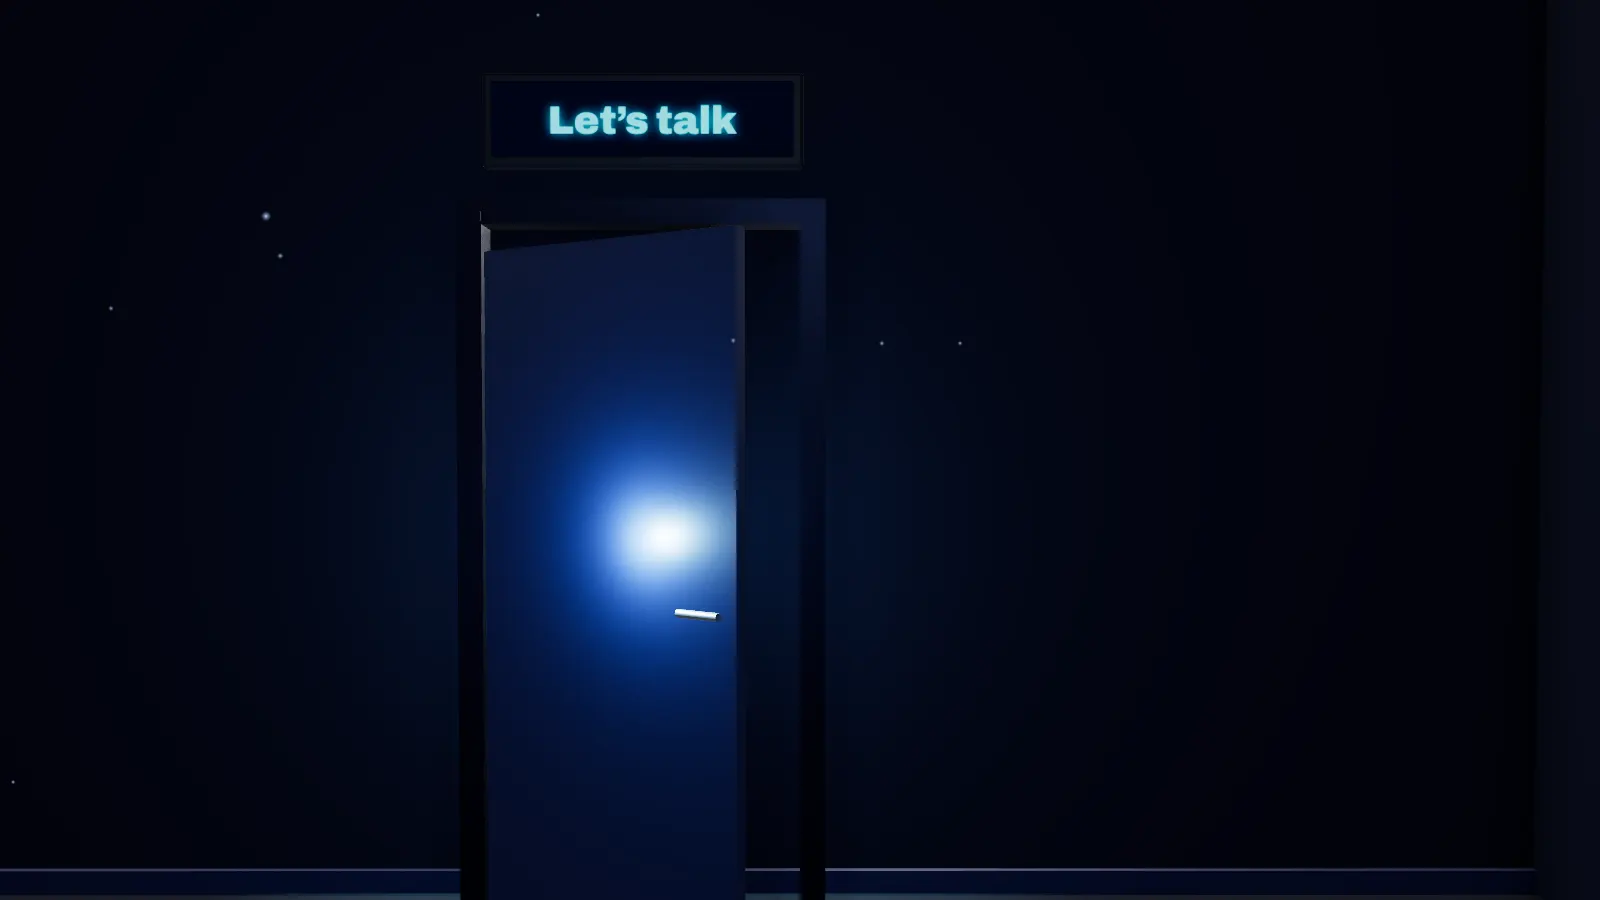
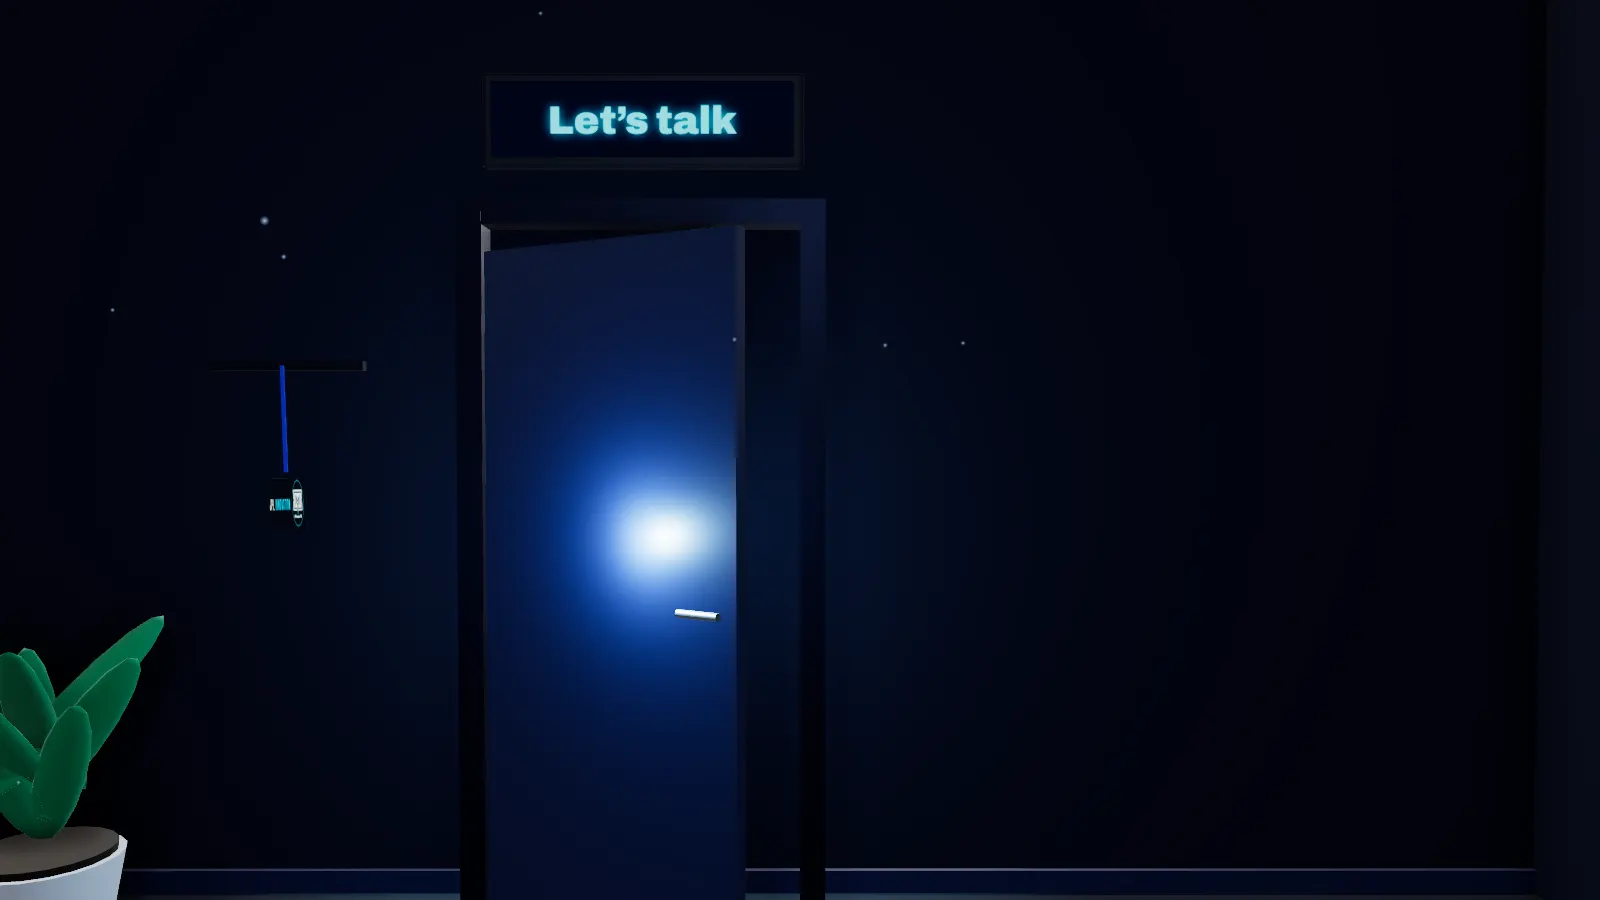
Set dressing, a resting starfield, and the studio's design notes
- Props: shelving with bins, books, boxes and plants beside the desk, a rug, a toolbox and spare wheels, a parts
  shelf over the drone bench, laptops and notebooks on the team's table, a plant, a badge on a lanyard by the door.
- The animated starfield stops drawing while the studio's opaque 3D stage covers it, and resumes elsewhere.
- Removes the old theme toggle (the theme is in Settings now); all stills and the link-preview card re-rendered.
- docs/design/direction.md records the studio's direction, its honesty rules and its budgets.

Changed region(s): [[0.0, 0.6844, 0.125, 1.0], [0.1562, 0.4044, 0.1875, 0.5911]]

diff --git a/src/lib/studio/props.ts b/src/lib/studio/props.ts
@@ -1,0 +1,208 @@
+/**
+ * Set dressing: the small things that make the room look worked in (shelving with bins, a plant, a rug, a toolbox,
+ * a parts shelf over the drone bench, laptops on the team's table, a badge on a lanyard by the door). Plain shapes in
+ * the room's own materials, placed so they sit in frame beside each scene's subject and never in front of it.
+ * Positions are metres in the room's space (room.ts: the front wall is z = -3.4, the back wall z = 6.4).
+ */
+import {
+	CylinderGeometry,
+	DoubleSide,
+	Group,
+	Mesh,
+	MeshBasicMaterial,
+	MeshStandardMaterial,
+	PlaneGeometry,
+	SphereGeometry,
+	TorusGeometry,
+} from "three";
+import { hardware } from "../three/finish";
+import { boxAt, canvasSurface, imageTexture, ROOM } from "./room";
+import type { RoomState } from "./room";
+
+export interface Props {
+	update(state: RoomState, dt: number): void;
+}
+
+const mat = (color: number, roughness = 0.6, finish: Parameters<typeof hardware>[1] = "plastic") => hardware({ color, roughness }, finish);
+
+export function buildProps(parent: Group): Props {
+	const { z0, z1 } = ROOM;
+	const steel = hardware({ color: 0x2d3446, roughness: 0.4, metalness: 0.7 }, "anodised");
+	const wood = hardware({ color: 0x5b4636, roughness: 0.55 }, "plastic");
+	const kraft = mat(0xb08a5a, 0.85, "printed");
+	const accents = [0x22d3ee, 0xffc20e, 0x8b5cf6, 0x34d399, 0xf0596b, 0x3b82f6].map((c) => mat(c, 0.5));
+
+	/** A potted plant: a tapered pot and a handful of leaves. */
+	const plant = (x: number, y: number, z: number, scale = 1) => {
+		const g = new Group();
+		g.position.set(x, y, z);
+		g.scale.setScalar(scale);
+		parent.add(g);
+		const pot = new Mesh(new CylinderGeometry(0.15, 0.11, 0.22, 20), mat(0xe9eef7, 0.4, "plastic"));
+		pot.position.y = 0.11;
+		g.add(pot);
+		const soil = new Mesh(new CylinderGeometry(0.135, 0.135, 0.02, 20), mat(0x2a2118, 0.95));
+		soil.position.y = 0.225;
+		g.add(soil);
+		const leaf = hardware({ color: 0x2f8f5b, roughness: 0.7, side: DoubleSide }, "fabric");
+		for (let i = 0; i < 9; i++) {
+			const a = (i / 9) * Math.PI * 2;
+			const tilt = 0.45 + (i % 3) * 0.18;
+			const stem = new Mesh(new SphereGeometry(0.1, 10, 8), leaf);
+			stem.scale.set(0.5, 1.6 + (i % 3) * 0.35, 0.18);
+			stem.position.set(Math.sin(a) * 0.07, 0.4 + (i % 3) * 0.06, Math.cos(a) * 0.07);
+			stem.rotation.set(Math.cos(a) * tilt, 0, -Math.sin(a) * tilt);
+			g.add(stem);
+		}
+		return g;
+	};
+
+	/** Open shelving: two uprights, boards, and what sits on them. */
+	const shelving = (x: number, z: number, width: number, boards: number[], depth = 0.34) => {
+		for (const sx of [-1, 1]) boxAt(parent, 0.04, boards[boards.length - 1] + 0.12, depth, steel, x + sx * (width / 2 - 0.02), (boards[boards.length - 1] + 0.12) / 2, z);
+		for (const y of boards) boxAt(parent, width, 0.03, depth, wood, x, y, z, 0.006);
+		boxAt(parent, width - 0.08, boards[boards.length - 1] + 0.1, 0.01, mat(0x111a33, 0.9), x, (boards[boards.length - 1] + 0.1) / 2 + 0.02, z - depth / 2 + 0.005); // the back panel
+	};
+
+	/* ---------- The storage shelving by the desk (the title scene's frame, left of the desk) ---------- */
+	const sx = -8.0;
+	const sz = z0 + 0.2;
+	shelving(sx, sz, 0.9, [0.12, 0.55, 0.98, 1.41, 1.84]);
+	// Floor shelf: two big bins.
+	boxAt(parent, 0.36, 0.28, 0.28, accents[0], sx - 0.2, 0.28, sz, 0.02);
+	boxAt(parent, 0.36, 0.28, 0.28, accents[2], sx + 0.2, 0.28, sz, 0.02);
+	// Second: a row of binders.
+	[0x1d4ed8, 0x0f766e, 0xb45309, 0x7c3aed, 0xbe123c, 0x334155].forEach((c, i) => boxAt(parent, 0.07, 0.3, 0.24, mat(c, 0.55), sx - 0.33 + i * 0.1, 0.72, sz, 0.005));
+	// Third: cardboard boxes.
+	boxAt(parent, 0.3, 0.22, 0.26, kraft, sx - 0.22, 1.12, sz, 0.01);
+	boxAt(parent, 0.26, 0.16, 0.26, kraft, sx + 0.18, 1.09, sz, 0.01);
+	boxAt(parent, 0.2, 0.12, 0.2, kraft, sx + 0.18, 1.23, sz, 0.01);
+	// Fourth: small bins in the team's colours.
+	for (let i = 0; i < 4; i++) boxAt(parent, 0.17, 0.12, 0.24, accents[(i + 1) % accents.length], sx - 0.3 + i * 0.2, 1.5, sz, 0.015);
+	// Top: a small plant.
+	plant(sx, 1.86, sz, 0.55);
+	// And a taller one on the floor beside the desk.
+	plant(-7.3, 0, z0 + 0.45, 1.5);
+
+	/* ---------- A rug under the desk ---------- */
+	const rugFace = canvasSurface(512, 352);
+	{
+		const { g } = rugFace;
+		g.fillStyle = "#16213f";
+		g.fillRect(0, 0, 512, 352);
+		g.strokeStyle = "#22d3ee";
+		g.globalAlpha = 0.55;
+		g.lineWidth = 5;
+		g.strokeRect(24, 24, 464, 304);
+		g.globalAlpha = 0.28;
+		g.lineWidth = 2;
+		g.strokeRect(44, 44, 424, 264);
+		g.globalAlpha = 0.18;
+		for (let i = 0; i < 9; i++) {
+			g.beginPath();
+			g.moveTo(64 + i * 48, 64);
+			g.lineTo(64 + i * 48, 288);
+			g.stroke();
+		}
+		rugFace.redraw();
+	}
+	const rug = new Mesh(new PlaneGeometry(3.0, 2.1), new MeshStandardMaterial({ map: rugFace.texture, roughness: 1 }));
+	rug.rotation.x = -Math.PI / 2;
+	rug.position.set(-6, 0.006, z0 + 1.45);
+	parent.add(rug);
+
+	/* ---------- Robotics: a toolbox and spare wheels ---------- */
+	const red = mat(0xc8283a, 0.45);
+	boxAt(parent, 0.52, 0.22, 0.26, red, -1.78, 0.11, -1.95, 0.02);
+	boxAt(parent, 0.5, 0.05, 0.24, mat(0x9a1f2e, 0.45), -1.78, 0.245, -1.95, 0.015);
+	const handle = new Mesh(new TorusGeometry(0.06, 0.008, 8, 16, Math.PI), steel);
+	handle.position.set(-1.78, 0.27, -1.95);
+	parent.add(handle);
+	const tire = mat(0x14171f, 0.9, "rubber");
+	for (let i = 0; i < 3; i++) {
+		const wheel = new Mesh(new CylinderGeometry(0.1, 0.1, 0.05, 20), tire);
+		wheel.position.set(-3.75, 0.03 + i * 0.052, -3.0);
+		parent.add(wheel);
+	}
+
+	/* ---------- Drones: a parts shelf over the bench ---------- */
+	const px = -1.25;
+	boxAt(parent, 1.5, 0.03, 0.26, wood, px, 1.5, z0 + 0.15, 0.006);
+	boxAt(parent, 1.5, 0.03, 0.26, wood, px, 1.9, z0 + 0.15, 0.006);
+	for (const bx of [-0.62, 0.62]) boxAt(parent, 0.03, 0.46, 0.04, steel, px + bx, 1.7, z0 + 0.06);
+	// LiPo bags, flat, with a red label each; a stack of prop packs; a coil of wire.
+	for (let i = 0; i < 3; i++) {
+		boxAt(parent, 0.14, 0.05, 0.1, mat(0x161a24, 0.5, "wrap"), px - 0.5 + i * 0.17, 1.545, z0 + 0.15, 0.01);
+		boxAt(parent, 0.06, 0.004, 0.04, red, px - 0.5 + i * 0.17, 1.572, z0 + 0.15);
+	}
+	for (let i = 0; i < 3; i++) boxAt(parent, 0.22, 0.015, 0.12, mat(0x1d2b4f, 0.5), px + 0.12, 1.53 + i * 0.016, z0 + 0.15, 0.003);
+	const coil = new Mesh(new TorusGeometry(0.05, 0.016, 8, 20), mat(0xf0596b, 0.5));
+	coil.rotation.x = Math.PI / 2;
+	coil.position.set(px + 0.5, 1.55, z0 + 0.15);
+	parent.add(coil);
+	// Upper shelf: bins.
+	for (let i = 0; i < 5; i++) boxAt(parent, 0.2, 0.13, 0.2, accents[i % accents.length], px - 0.55 + i * 0.27, 1.975, z0 + 0.15, 0.015);
+
+	/* ---------- Web: a mug and a notebook by the laptop ---------- */
+	const mug = new Mesh(new CylinderGeometry(0.04, 0.036, 0.1, 20), mat(0xf2f4f8, 0.35, "wrap"));
+	mug.position.set(3.3 - 0.62, 0.9, -2.75);
+	parent.add(mug);
+	boxAt(parent, 0.2, 0.016, 0.28, mat(0xf4efe2, 0.9, "printed"), 3.3 + 0.62, 0.858, -2.78, 0.003).rotation.y = -0.3;
+
+	/* ---------- Networks: a cable spool at the rack's foot ---------- */
+	const spool = new Mesh(new CylinderGeometry(0.11, 0.11, 0.12, 20), mat(0xc8283a, 0.5));
+	spool.position.set(1.85, 0.06, -2.2);
+	parent.add(spool);
+	const spoolCore = new Mesh(new CylinderGeometry(0.045, 0.045, 0.14, 12), steel);
+	spoolCore.position.copy(spool.position);
+	parent.add(spoolCore);
+
+	/* ---------- The crew's table: two laptops, notebooks, a plant ---------- */
+	const alu = hardware({ color: 0xb4bccb, roughness: 0.32, metalness: 0.85 }, "anodised");
+	const screenGlow = new MeshBasicMaterial({ color: 0x1a2a52, toneMapped: false });
+	const tableTop = 0.77;
+	for (const [x, turn] of [[-3.05, 0.25], [-1.75, -0.2]] as const) {
+		const laptop = new Group();
+		laptop.position.set(x, tableTop, 4.78);
+		laptop.rotation.y = Math.PI + turn;
+		parent.add(laptop);
+		boxAt(laptop, 0.34, 0.012, 0.23, alu, 0, 0.006, 0, 0.005);
+		const lid = new Group();
+		lid.position.set(0, 0.012, -0.11);
+		lid.rotation.x = -0.32;
+		laptop.add(lid);
+		boxAt(lid, 0.34, 0.22, 0.008, alu, 0, 0.11, 0, 0.004);
+		const screen = new Mesh(new PlaneGeometry(0.32, 0.2), screenGlow);
+		screen.position.set(0, 0.11, 0.005);
+		lid.add(screen);
+	}
+	boxAt(parent, 0.17, 0.014, 0.23, mat(0xf4efe2, 0.9, "printed"), -2.4, tableTop + 0.007, 5.0, 0.003).rotation.y = 0.5;
+	boxAt(parent, 0.17, 0.014, 0.23, mat(0x23324f, 0.7), -2.15, tableTop + 0.007, 4.95, 0.003).rotation.y = -0.2;
+	plant(-3.95, 0, z1 - 0.5, 1.4);
+
+	/* ---------- The window sill: a small plant ---------- */
+	plant(2.55, 0.9, z1 - 0.22, 0.6);
+
+	/* ---------- The door: a mat, and a badge on a lanyard from a hook rail ---------- */
+	const doorX = -5.6;
+	boxAt(parent, 0.9, 0.012, 0.5, mat(0x1c2540, 1, "fabric"), doorX, 0.006, z1 - 0.55, 0.004);
+	boxAt(parent, 0.5, 0.03, 0.03, steel, doorX + 1.15, 1.72, z1 - 0.025);
+	const badgeHolder = new Group();
+	badgeHolder.position.set(doorX + 1.15, 1.72, z1 - 0.06);
+	parent.add(badgeHolder);
+	boxAt(badgeHolder, 0.012, 0.34, 0.004, mat(0x3b4fd8, 0.6, "fabric"), 0, -0.17, 0);
+	const badgeFace = new Mesh(new PlaneGeometry(0.11, 0.15), new MeshBasicMaterial({ map: imageTexture("/assets/jpl-logo-dark-480.webp"), transparent: true, toneMapped: false }));
+	badgeFace.rotation.y = Math.PI;
+	badgeFace.position.set(0, -0.44, -0.004);
+	badgeHolder.add(badgeFace);
+	boxAt(badgeHolder, 0.12, 0.16, 0.006, mat(0x0b1226, 0.5), 0, -0.44, 0.002, 0.008);
+
+	let sway = 0;
+	return {
+		update(_state, dt) {
+			// The badge sways on its lanyard in the draught of the door.
+			sway += dt;
+			badgeHolder.rotation.z = Math.sin(sway * 0.9) * 0.05;
+		},
+	};
+}

diff --git a/src/scripts/background.ts b/src/scripts/background.ts
@@ -236,7 +236,15 @@ function start(canvas: HTMLCanvasElement, glow: HTMLElement | null) {
 		}
 	}
 
+	// The home page's studio covers the whole window with its own opaque 3D stage (html.studio-on): drawing the sky behind
+	// it would only compete with the 3D for the GPU, so it rests until the studio is left.
+	const covered = () => document.documentElement.classList.contains("studio-on");
+
 	function frame(now: number) {
+		if (covered()) {
+			raf = 0;
+			return;
+		}
 		const dt = Math.min(now - last, 50);
 		// Touch devices: about 30 fps is plenty for motion this slow, and saves battery.
 		if (touch && dt < 30) {
@@ -250,7 +258,7 @@ function start(canvas: HTMLCanvasElement, glow: HTMLElement | null) {
 	}
 
 	const play = () => {
-		if (raf || reducedMotion() || document.hidden) return;
+		if (raf || reducedMotion() || document.hidden || covered()) return;
 		last = performance.now();
 		if (!nextShooter) nextShooter = last + 6000 + Math.random() * 6000;
 		raf = requestAnimationFrame(frame);
@@ -288,7 +296,11 @@ function start(canvas: HTMLCanvasElement, glow: HTMLElement | null) {
 	// Light/dark switch: pick up the new colours (redraw now if the loop isn't running).
 	new MutationObserver(() => {
 		colors = readColors();
-		if (!raf) draw(performance.now());
+		if (covered()) pause();
+		else if (!raf) {
+			if (reducedMotion() || document.hidden) draw(performance.now());
+			else play();
+		}
 	}).observe(document.documentElement, { attributes: true, attributeFilter: ["class"] });
 
 	// Page changes inside the site (Astro's client router): warp out as the next page loads, settle once it's in.

diff --git a/src/lib/studio/room.ts b/src/lib/studio/room.ts
@@ -36,6 +36,7 @@ import { RoundedBoxGeometry } from "three/addons/geometries/RoundedBoxGeometry.j
 import { hardware } from "../three/finish";
 import type { Palette, StageContext } from "../three/stage";
 import { buildAmbience } from "./ambience";
+import { buildProps } from "./props";
 import { createLightPool, type LightSpec } from "./lights";
 import { SHOTS } from "./scenes";
 import { buildStations, SCREEN_STEP } from "./stations";
@@ -397,6 +398,7 @@ export function buildRoom(ctx: StageContext, content: RoomContent): Room {
 	for (const id of Object.keys(SHOTS)) overhead[id] = { at: [SHOTS[id].camera[0], h - 0.4, 1.5], color: 0xcfe3ff, dark: 4.5, light: 10, distance: 9, decay: 1.6 };
 	const pool = createLightPool(group, accents, overhead);
 	const ambience = buildAmbience(group);
+	const props = buildProps(group);
 
 	/* ---------- Fog: depth, and the far end of the room falls into navy ---------- */
 	ctx.scene.fog = new Fog(0x050a1f, 7, 19);
@@ -410,6 +412,7 @@ export function buildRoom(ctx: StageContext, content: RoomContent): Room {
 			const { lamp: on, time, near } = state;
 			stations.update(state, Math.max(0, time - lastTime));
 			ambience.update(state, Math.max(0, time - lastTime));
+			props.update(state, Math.max(0, time - lastTime));
 			lastTime = time;
 			// The lamp, and the room coming up with it.
 			const level = on * on * (3 - 2 * on);

diff --git a/docs/design/direction.md b/docs/design/direction.md
@@ -78,3 +78,27 @@ bytes.
 
 Making it look like a standard template: plain paper-and-ink palettes, generic grids of identical cards, stock
 illustrations, fake stats or testimonials, uppercase eyebrow labels on every heading, em dashes.
+
+## The studio (22 October 2026, the documentary redesign)
+
+The home page is now one workspace the camera moves through: the desk and sketchbook, the monitor, four work benches,
+the wall of projects, the whiteboard, the window, the team's table and the door, then round to the desk again. The
+night-sky look carries in (the starfield is in the window, the room is navy under cyan, amber and violet light, LED
+strips under the benches) and so do Archivo and the logo. In the light theme the same room is a bright day-lit studio
+with a dusk window.
+
+- **Honest.** Nothing is shown as done before it is: the F450 stays on its mat (it has not flown); the 3D robot is the
+  standard KitBot platform and says so; the sketchbook is drawn from the real numbers until scanned sketches replace it;
+  the screens show the real pages.
+- **Real scrolling underneath.** The scrollbar is hidden but the wheel, trackpad, touch, keyboard and Back button work as
+  always; the camera follows through a critically damped spring and dwells on each scene while its words are read.
+- **Text is real HTML**, every scene always in the accessibility tree; **read mode** (phones, short windows, reduced
+  motion, no WebGL, no JavaScript, or chosen in Settings) is the same words as one page with a render of each scene.
+- **Glass**: no more than four glass elements on screen (header, Let's talk, the scene card, the ruler), tinted enough
+  that contrast never depends on what is behind (measured: `scripts/measure-contrast.*`).
+- **Lighting**: eight lights in the whole room (two of them travel with the camera), everything else is emissive or a
+  flat glowing decal, so an integrated GPU can hold the frame rate.
+- **Sound** is off and not built: the plan's rule is that every sound is recorded by the team.
+
+Project pages open over slow footage of their own station and end on a Next chapter card; Work is the same wall at full
+size; 404 is a drone camera that has lost its signal.
